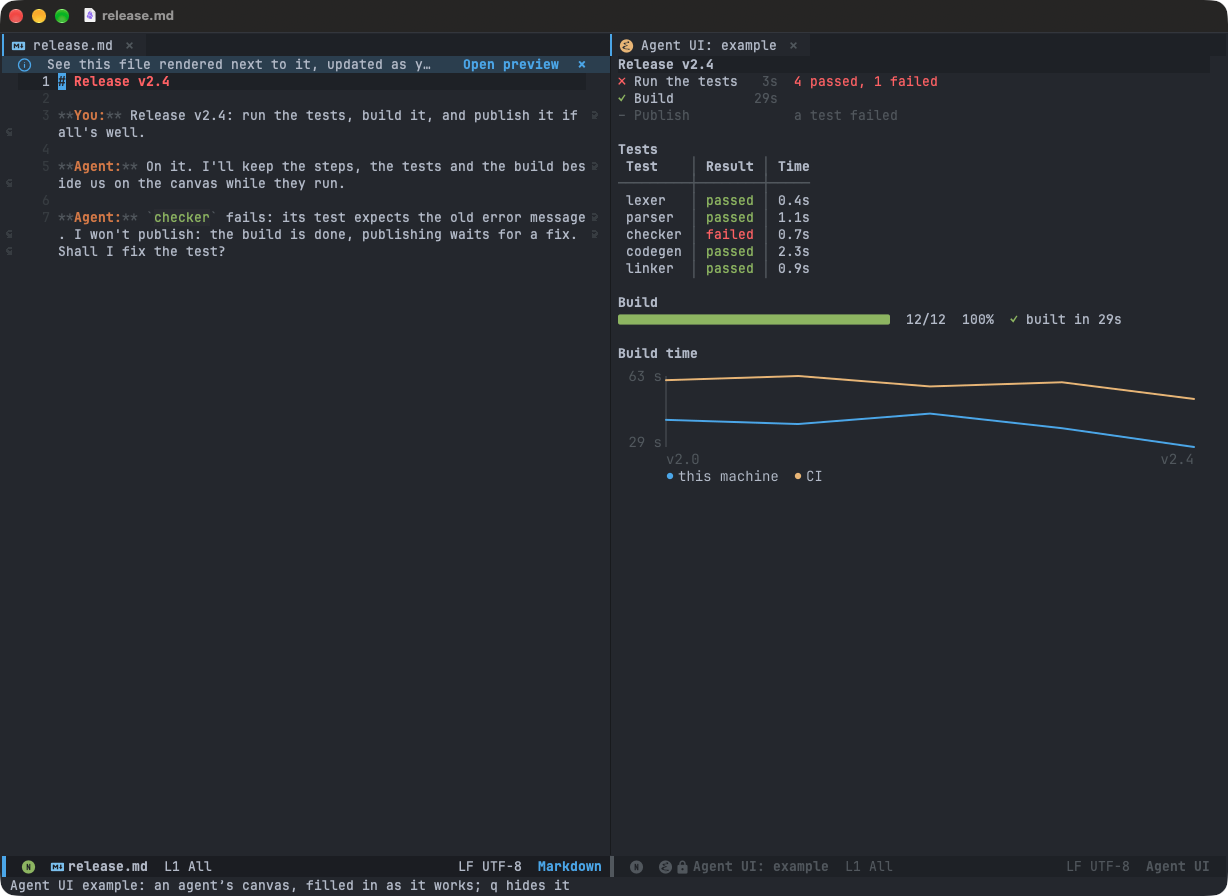
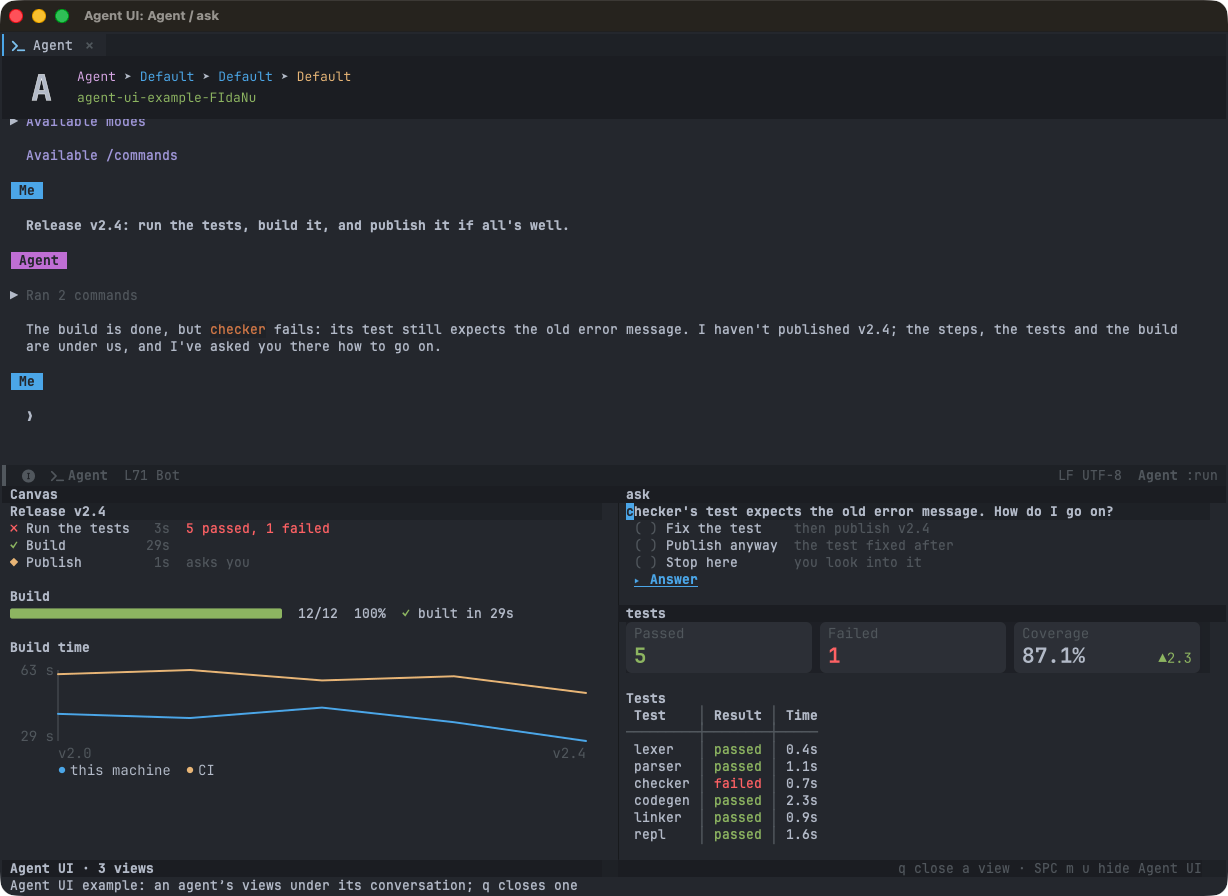
Agent UI's example and screenshot: a session with its views under it (doom-ht6.84). The example showed release.md standing in for the conversation, its canvas beside it, as Agent UI was before it moved into its session's pane. Now M-x +my/example-agent-ui starts a real agent-shell session with the s

diff --git a/docs/examples.md b/docs/examples.md
@@ -14,7 +14,7 @@ its own, deleted when you close them; the echo area says what to try first.
 | `stripe` | [The error stripe](editor.md#error-stripe) | Errors red, warnings yellow, TODOs blue, git's changes as in the gutter: click the strip to jump, drag to scroll |
 | `tiling` | [Tiled panes](editor.md#tiling) | `SPC w SPC` another pane, `SPC w a` arranges them |
 | `banner` | [Notices](editor.md#notices) | A notice's actions, its ✕ |
-| `agent-ui` | [An agent's canvas](agent-ui.md) beside its conversation, filled in as it works | `q` hides the canvas |
+| `agent-ui` | [An agent's Agent UI](agent-ui.md) under its conversation, a stand-in agent (offline) releasing a project: its canvas, its tests and a question filled in as it works | `q` closes a view, `SPC m u` hides Agent UI |
 | `issues` | [A project's issues](issues.md) in their list (needs `bd`) | `RET` opens one, Show closed shows the closed ones |
 | `panel` | [A project panel](agent-ui.md#project-panels), this config's CPU panel, filled every second | `gR` reads it again, `q` closes it |
 | `agent-workspace` | [An agent crew](agent-workspace.md) in its app: three stand-in agents, offline, each in its worktree | `a` then `A` answers sam's hand, `#ken` in the room, `j` / `k` on the bars, `Q` closes it |

diff --git a/README.md b/README.md
@@ -16,11 +16,11 @@ own ([Examples](docs/examples.md)).
 
 ### Agent UI
 
-Your agent keeps things in view on a canvas beside its session while it works: a checklist of its steps, a table of
+Your agent keeps things in view under its conversation while it works: a checklist of its steps, a table of
 test results filling in, a build's progress bar, charts (SVG in the GUI, characters in a terminal), each updated in
 place. It draws them with `cmd/agent-ui`, which it's told about, whichever agent it is ([more](docs/agent-ui.md)).
 
-![Agent UI: a canvas beside the conversation](examples/agent-ui.png)
+![Agent UI: an agent's views under its conversation](examples/agent-ui.png)
 
 ### Agent workflow
 

diff --git a/docs/agent-ui.md b/docs/agent-ui.md
@@ -11,7 +11,7 @@ bar that moves while a build runs, a table of test results filling in, a chart. 
 at the bottom of its session's pane, through a small command line. Everything works in a terminal (`emacs -nw`); the GUI draws some
 elements better (charts as SVG) and has elements of its own (images, drawings, web pages).
 
-![A canvas beside the conversation: steps, tests, a build, a chart](../examples/agent-ui.png)
+![A session with its Agent UI under it: the release's steps, build and chart, a question, the tests](../examples/agent-ui.png)
 ## The model
 
 - An **element** is data: a JSON object with a `type`, an `id` and the type's properties. The agent never writes Lisp
